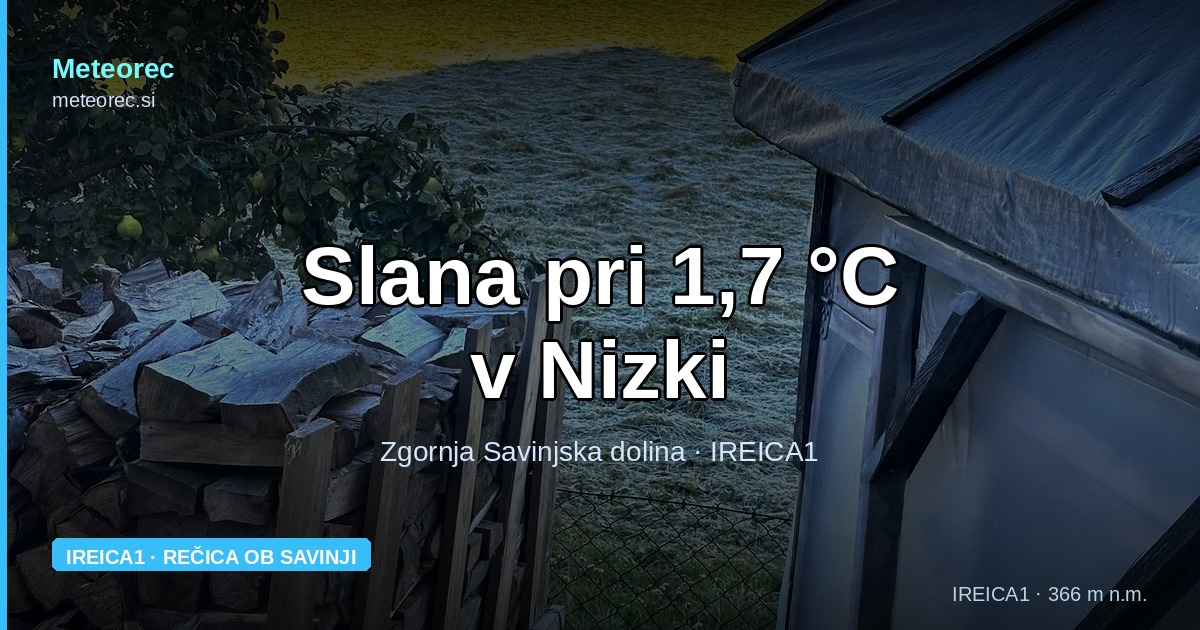
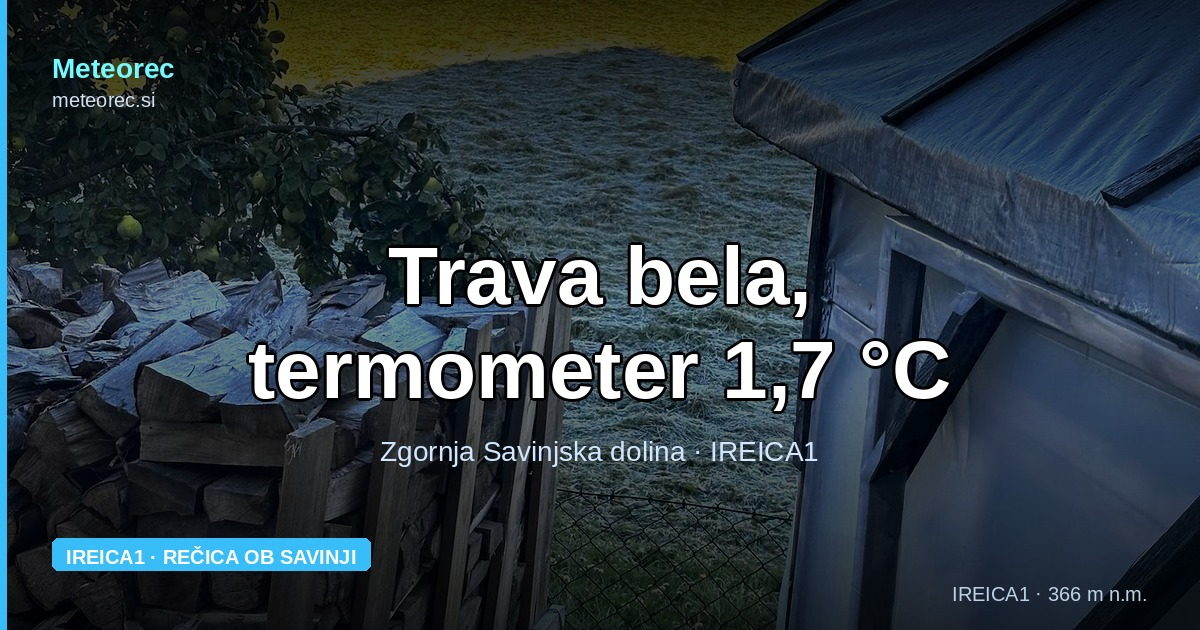
blog: slana — nov naslov, lektura besedila, dva grafa
Naslov »Trava je bela, termometer pa kaže 1,7 °C. Kako je to mogoče?«,
besedilo slogovno poenoteno po lekturi (podatki nespremenjeni), dodana grafa
(jutranji minimum 18. 9.–4. 10.; napoved proti meritvi) kot inline SVG z barvami,
preverjenimi z validate_palette.js za temno podlago.

Claude-Session: https://claude.ai/code/session_017CUyHez8XZk6zGkKhotFtc

Changed region(s): [[0.185, 0.3619, 0.8017, 0.6635]]

diff --git a/blog/slana-pri-1-7-c-zakaj-trava-pobeli-prej-kot-postaja-1004.html b/blog/slana-pri-1-7-c-zakaj-trava-pobeli-prej-kot-postaja-1004.html
@@ -17,39 +17,39 @@ j=d.createElement(s),dl=l!='dataLayer'?'&l='+l:'';j.async=true;j.src=
   gtag('config', 'G-LE8PJ1HR8B');
 </script>
 <meta name="viewport" content="width=device-width, initial-scale=1.0">
-<title>Slana pri 1,7 °C | Meteorec</title>
+<title>Trava je bela, termometer pa kaže 1,7 °C. Kako je to mogoče?</title>
 <link rel="canonical" href="https://meteorec.si/blog/slana-pri-1-7-c-zakaj-trava-pobeli-prej-kot-postaja-1004.html">
 <link rel="alternate" hreflang="sl" href="https://meteorec.si/blog/slana-pri-1-7-c-zakaj-trava-pobeli-prej-kot-postaja-1004.html">
 <link rel="alternate" hreflang="x-default" href="https://meteorec.si/blog/slana-pri-1-7-c-zakaj-trava-pobeli-prej-kot-postaja-1004.html">
-<meta name="description" content="Danes je postaja IREICA1 izmerila 1,7 °C, na travniku v Nizki pa je bila bela slana. Zakaj trava zmrzne prej kot zrak in kdaj lahko pričakujemo ničlo.">
+<meta name="description" content="Trava v Nizki je bila bela od slane, termometer na postaji IREICA1 pa je zjutraj kazal 1,7 °C. Kako je to mogoče, kdaj pride ničla in kaj bi pokazala sonda tik nad travo.">
 <meta name="keywords" content="analiza, oktober, 2026, mraz, slana, IREICA1">
 <meta name="robots" content="index, follow, max-image-preview:large">
 <meta name="author" content="Filip Eremita">
 <meta property="og:type" content="article">
 <meta property="og:url" content="https://meteorec.si/blog/slana-pri-1-7-c-zakaj-trava-pobeli-prej-kot-postaja-1004.html">
 <meta property="og:site_name" content="Meteorec">
-<meta property="og:title" content="Slana pri 1,7 °C: zakaj trava pobeli, še preden postaja pokaže ničlo">
-<meta property="og:description" content="Danes je postaja IREICA1 izmerila 1,7 °C, na travniku v Nizki pa je bila bela slana. Zakaj trava zmrzne prej kot zrak in kdaj lahko pričakujemo ničlo.">
+<meta property="og:title" content="Trava je bela, termometer pa kaže 1,7 °C. Kako je to mogoče?">
+<meta property="og:description" content="Trava v Nizki je bila bela od slane, termometer na postaji IREICA1 pa je zjutraj kazal 1,7 °C. Kako je to mogoče, kdaj pride ničla in kaj bi pokazala sonda tik nad travo.">
 <meta property="og:image" content="https://meteorec.si/og/slana-pri-1-7-c-zakaj-trava-pobeli-prej-kot-postaja-1004.jpg">
 <meta property="og:image:width" content="1200">
 <meta property="og:image:height" content="630">
 <meta property="og:locale" content="sl_SI">
-<meta property="article:published_time" content="2026-10-04T18:10:36.170521+00:00">
+<meta property="article:published_time" content="2026-10-04T18:18:02.021108+00:00">
 <meta property="article:author" content="Filip Eremita">
 <meta property="article:section" content="IREICA1 · Rečica ob Savinji">
 <meta name="twitter:card" content="summary_large_image">
-<meta name="twitter:title" content="Slana pri 1,7 °C: zakaj trava pobeli, še preden postaja pokaže ničlo">
-<meta name="twitter:description" content="Danes je postaja IREICA1 izmerila 1,7 °C, na travniku v Nizki pa je bila bela slana. Zakaj trava zmrzne prej kot zrak in kdaj lahko pričakujemo ničlo.">
+<meta name="twitter:title" content="Trava je bela, termometer pa kaže 1,7 °C. Kako je to mogoče?">
+<meta name="twitter:description" content="Trava v Nizki je bila bela od slane, termometer na postaji IREICA1 pa je zjutraj kazal 1,7 °C. Kako je to mogoče, kdaj pride ničla in kaj bi pokazala sonda tik nad travo.">
 <meta name="twitter:image" content="https://meteorec.si/og/slana-pri-1-7-c-zakaj-trava-pobeli-prej-kot-postaja-1004.jpg">
 <script type="application/ld+json">
 {
   "@context": "https://schema.org",
   "@type": "BlogPosting",
-  "headline": "Slana pri 1,7 °C: zakaj trava pobeli, še preden postaja pokaže ničlo",
-  "description": "Danes je postaja IREICA1 izmerila 1,7 °C, na travniku v Nizki pa je bila bela slana. Zakaj trava zmrzne prej kot zrak in kdaj lahko pričakujemo ničlo.",
+  "headline": "Trava je bela, termometer pa kaže 1,7 °C. Kako je to mogoče?",
+  "description": "Trava v Nizki je bila bela od slane, termometer na postaji IREICA1 pa je zjutraj kazal 1,7 °C. Kako je to mogoče, kdaj pride ničla in kaj bi pokazala sonda tik nad travo.",
   "image": { "@type": "ImageObject", "url": "https://meteorec.si/og/slana-pri-1-7-c-zakaj-trava-pobeli-prej-kot-postaja-1004.jpg", "width": 1200, "height": 630 },
-  "datePublished": "2026-10-04T18:10:36.170521+00:00",
-  "dateModified": "2026-10-04T18:10:36.170521+00:00",
+  "datePublished": "2026-10-04T18:18:02.021108+00:00",
+  "dateModified": "2026-10-04T18:18:02.021108+00:00",
   "inLanguage": "sl",
   "author": { "@type": "Person", "name": "Filip Eremita", "url": "https://meteorec.si/o-postaji.html", "sameAs": ["https://ibanezar.github.io", "https://www.wunderground.com/dashboard/pws/IREICA1"] },
   "publisher": { "@type": "Organization", "name": "Meteorec", "logo": { "@type": "ImageObject", "url": "https://meteorec.si/icon-512.png" } },
@@ -79,15 +79,15 @@ height="0" width="0" style="display:none;visibility:hidden"></iframe></noscript>
   </header>
 
   <nav class="crumbs" aria-label="Drobtine">
-    <a href="/">Meteorec</a> › <a href="/blog/">Blog</a> › Slana pri 1,7 °C: zakaj trava pobeli prej kot postaja
+    <a href="/">Meteorec</a> › <a href="/blog/">Blog</a> › Trava je bela, termometer pa kaže 1,7 °C
   </nav>
 
   <article>
     <div class="stn-badge"><span></span> IREICA1 · Rečica ob Savinji</div>
-    <h1>Slana pri 1,7 °C: zakaj trava pobeli, še preden postaja pokaže ničlo</h1>
+    <h1>Trava je bela, termometer pa kaže 1,7 °C. Kako je to mogoče?</h1>
     <p class="post-meta">4. oktobra 2026 · Filip Eremita · Postaja IREICA1</p>
 
-    <p class="lead">Danes zjutraj je postaja IREICA1 v Rečici ob Savinji izmerila <span class="hl">1,7 °C</span>, na travniku v Nizki pa je bila trava ob 8.35 še vedno bela od slane. Protislovja ni: postaja meri <strong>zrak</strong> približno 1,5–2 m nad tlemi, slana pa nastane na <strong>hladni površini travnih bilk</strong>. Prva letošnja slana je bila sicer že 23. septembra, zato smo primerjali jutra od takrat do danes in preverili, kdaj po takem jutru običajno pride ničla.</p>
+    <p class="lead">Ob 8.35 je bila trava na travniku v Nizki bela od slane, najnižja jutranja temperatura na postaji IREICA1 pa je bila <span class="hl">1,7 °C</span>. Kako je to mogoče? Odgovor je preprost: postaja meri temperaturo <strong>zraka</strong> približno 1,5–2 m nad tlemi, trava pa se ponoči ohladi precej bolj. Prva letošnja slana je bila sicer že 23. septembra, zato smo primerjali jutra od takrat do danes in preverili, kdaj po takem jutru običajno pride ničla.</p>
     <span class="section-label">Jutro v številkah</span>
     <h2 id="jutro">Kaj smo izmerili in kaj smo videli</h2>
 <div class="stat-grid">
@@ -116,22 +116,30 @@ height="0" width="0" style="display:none;visibility:hidden"></iframe></noscript>
       <img src="/img/blog/slana-pri-1-7-c-zakaj-trava-pobeli-prej-kot-postaja-1004/slana-pri-1-7-c-zakaj-trava-pobeli-prej-kot-postaja-1004-1.jpg" alt="Slana na travniku v Nizki: v senci skladovnice drv in rastlinjaka je trava še bela, osončeni del travnika v ozadju je že zelen" width="1350" height="1800" loading="lazy">
       <figcaption>Slana na travniku v Nizki, 4. oktobra 2026 ob 8.35. V senci skladovnice drv in rastlinjaka je trava še bela, osončeni del travnika v ozadju je že zelen. Foto: Jernej Štorgel.</figcaption>
     </figure>
-    <p>Fotografija lepo pokaže, kako slana nastane in izgine. Bela je trava v senci, kjer sonce bilk še ni doseglo. Tam, kamor so že padli sončni žarki, je led skopnel in trava je spet zelena. Slana je torej tanka plast ledu na površini, ki ne potrebuje, da bi bil zrak pod ničlo.</p>
+    <p>Fotografija lepo pokaže razliko med temperaturo zraka in temperaturo površine, pa tudi to, kako slana nastane in izgine. Bela je trava v senci, kjer sonce bilk še ni doseglo. Tam, kamor so že padli sončni žarki, je led skopnel in trava je spet zelena.</p>
+    <p>Dan je bil tudi sicer izrazito dolinski: zjutraj 1,7 °C, do 20. ure pa je temperatura dosegla 24,3 °C, kar je 22,6 °C dnevnega razpona. Jutra so že skoraj zimska, popoldnevi pa še povsem poletni.</p>
 
     <span class="section-label">Razlaga</span>
-    <h2 id="zakaj-postaja-ne-pokaze">Zakaj postaja ni pokazala ničle</h2>
-    <p>Postaja meri temperaturo <strong>zraka</strong> v zaščitnem ohišju, približno 1,5–2 m nad tlemi. Tako je običajno pri meteoroloških meritvah, da so številke različnih postaj primerljive. Trava pa se ponoči ohlaja po svoje. Ob jasnem nebu in brez vetra toplota z listov in tal nemoteno uhaja proti nebu, zraka, ki bi jim jo vrnil, pa je malo, ker se skoraj ne premešava. Površina bilk je zato <strong>hladnejša od zraka</strong>. Ko se ohladi pod 0 °C, vodna para iz zraka na njej zmrzne in nastane slana.</p>
-    <p>Razlika je pri jasnih in mirnih nočeh običajno nekaj stopinj, v mraziščih in na odprtih travnikih lahko tudi večja. Pri 1,7 °C na postaji je bila temperatura na travi zato verjetno okoli ali pod 0 °C, kar potrjuje tudi fotografija. Pomaga, če imamo pred očmi tri različne pojme:</p>
+    <h2 id="zakaj-postaja-ne-pokaze">Trava se ohladi bolj kot zrak</h2>
+    <p>Ob jasni in mirni noči tla in trava oddajajo toploto proti nebu. Ker ni oblakov, ki bi del toplote vračali, in ker se zrak zaradi brezvetrja skoraj ne premešava, se površina bilk ohladi precej bolj kot zrak na višini postaje. Če temperatura površine pade pod 0 °C, vodna para iz zraka na njej zmrzne v ledene kristale: nastane slana. Razlika med travo in zrakom je pri takih nočeh običajno nekaj stopinj, v mraziščih in na odprtih travnikih tudi večja. Zato lahko zjutraj vidimo belo travo, medtem ko postaja kaže 1,7 °C.</p>
+    <p>Pri tem pogosto mešamo tri pojme:</p>
 <ul>
-      <li><strong>Zmrzal</strong> – zrak na 2 m je 0 °C ali hladnejši. Pri nas to štejemo za „pravo slano“ na postaji, o tem smo pisali tudi v članku <a href="/blog/oktober-2026-v-recici-kaj-kazejo-podatki-postaje-1001.html">Oktober 2026 v Rečici</a> in na strani <a href="/pojavi/zmrzal/">Zmrzal</a>.</li>
-      <li><strong>Slana</strong> – led, ki se nabere na hladni površini. Pojavi se lahko že, ko je zrak še nekaj stopinj nad ničlo.</li>
-      <li><strong>Prizemna zmrzal</strong> – temperatura tik ob tleh je 0 °C ali manj, na višini postaje pa ne.</li>
+      <li><strong>Slana</strong> – led, ki se nabere na hladni površini, na primer na travi, avtomobilu ali strehi. Pojavi se lahko že, ko je zrak še nekaj stopinj nad ničlo.</li>
+      <li><strong>Zmrzal</strong> – zrak na višini merjenja je 0 °C ali hladnejši. Pri nas to štejemo za „pravo slano“ na postaji, o tem smo pisali tudi v članku <a href="/blog/oktober-2026-v-recici-kaj-kazejo-podatki-postaje-1001.html">Oktober 2026 v Rečici</a> in na strani <a href="/pojavi/zmrzal/">Zmrzal</a>.</li>
+      <li><strong>Prizemna zmrzal</strong> – temperatura tik nad tlemi pade pod 0 °C, na običajni višini merjenja pa je zrak še nad ničlo.</li>
     </ul>
-    <p>Danes je bila torej na travniku prizemna zmrzal in slana, zmrzali v zraku pa ni bilo.</p>
+    <p>Današnje jutro je bilo zato primer slane in zelo verjetno tudi prizemne zmrzali. Za potrditev slednje bi potrebovali neposredno meritev tik nad tlemi.</p>
 
     <span class="section-label">Pregled</span>
     <h2 id="podobna-jutra">Je bilo letos že podobno? Da, 23. septembra</h2>
-    <p>Prva letošnja slana je bila <strong>23. septembra</strong>, ko je postaja pokazala 2,2 °C (v članku tistega dne smo navedli 2,1 °C iz prvega zapisa; v arhivu je končna vrednost 2,2 °C). <strong>3. oktobra</strong>, torej včeraj, je bilo 2,4 °C, jutro 2. oktobra je bilo z 3,1 °C malo toplejše. Danes je s 1,7 °C najhladneje letos jeseni. Slana je bila torej potrjena ob 2,2 °C in ob 1,7 °C na postaji. O prvem takem jutru smo pisali v članku <a href="/blog/2-1-c-najhladnejse-jesensko-jutro-kdaj-prva-slana-0923.html">2,1 °C zjutraj: najhladnejše jutro letošnje jeseni</a>.</p>
+    <p>Prva letošnja slana je bila <strong>23. septembra</strong>, ko je postaja pokazala 2,2 °C (v članku tistega dne smo navedli 2,1 °C iz prvega zapisa, v arhivu je končna vrednost 2,2 °C). <strong>3. oktobra</strong> je bilo 2,4 °C, 2. oktobra pa 3,1 °C. Danes je s 1,7 °C najhladneje letos jeseni, a temperatura zraka letos jeseni še ni padla pod ničlo. O prvem takem jutru smo pisali v članku <a href="/blog/2-1-c-najhladnejse-jesensko-jutro-kdaj-prva-slana-0923.html">2,1 °C zjutraj: najhladnejše jutro letošnje jeseni</a>. Lani je bilo drugače: 4. oktobra 2025 je temperatura na postaji padla na −1,2 °C.</p>
+<div class="chart-card"><h3>Jutranji minimum na postaji IREICA1 (°C)</h3><svg viewBox="0 0 420 290" width="100%" role="img" aria-labelledby="ca-t ca-d" style="display:block;max-width:560px;margin:0 auto"><title id="ca-t">Jutranji minimum na postaji IREICA1, 18. 9.–4. 10. 2026</title><desc id="ca-d">Najnižja dnevna temperatura po dnevih. Najnižja je danes, 1,7 °C; 23. septembra je bila 2,2 °C in je bila na terenu potrjena slana. Pod 0 °C zrak letos jeseni še ni padel.</desc><line x1="36" x2="368" y1="219.7" y2="219.7" stroke="rgba(173,192,216,.55)" stroke-width="1"/><text x="30" y="224.2" text-anchor="end" font-size="13" fill="var(--muted)">0</text><line x1="36" x2="368" y1="151.1" y2="151.1" stroke="rgba(255,255,255,.10)" stroke-width="1"/><text x="30" y="155.6" text-anchor="end" font-size="13" fill="var(--muted)">4</text><line x1="36" x2="368" y1="82.6" y2="82.6" stroke="rgba(255,255,255,.10)" stroke-width="1"/><text x="30" y="87.1" text-anchor="end" font-size="13" fill="var(--muted)">8</text><line x1="36" x2="368" y1="14.0" y2="14.0" stroke="rgba(255,255,255,.10)" stroke-width="1"/><text x="30" y="18.5" text-anchor="end" font-size="13" fill="var(--muted)">12</text><text x="368" y="214.7" text-anchor="end" font-size="12" fill="var(--muted)">0 °C: zmrzal v zraku</text><text x="36.0" y="276" text-anchor="middle" font-size="13" fill="var(--muted)">18. 9.</text><text x="139.8" y="276" text-anchor="middle" font-size="13" fill="var(--muted)">23. 9.</text><text x="243.5" y="276" text-anchor="middle" font-size="13" fill="var(--muted)">28. 9.</text><text x="368.0" y="276" text-anchor="middle" font-size="13" fill="var(--muted)">4. 10.</text><polyline points="36.0,50.0 56.8,24.3 77.5,63.7 98.2,67.1 119.0,127.1 139.8,182.0 160.5,151.1 181.2,149.4 202.0,161.4 222.8,139.1 243.5,132.3 264.2,135.7 285.0,139.1 305.8,140.9 326.5,166.6 347.2,178.6 368.0,190.6" fill="none" stroke="#3987e5" stroke-width="2" stroke-linejoin="round" stroke-linecap="round"/><circle cx="36.0" cy="50.0" r="4" fill="#3987e5" stroke="#0a0f1c" stroke-width="2"/><circle cx="36.0" cy="50.0" r="11" fill="transparent"><title>18. 9.: 9,9 °C</title></circle><circle cx="56.8" cy="24.3" r="4" fill="#3987e5" stroke="#0a0f1c" stroke-width="2"/><circle cx="56.8" cy="24.3" r="11" fill="transparent"><title>19. 9.: 11,4 °C</title></circle><circle cx="77.5" cy="63.7" r="4" fill="#3987e5" stroke="#0a0f1c" stroke-width="2"/><circle cx="77.5" cy="63.7" r="11" fill="transparent"><title>20. 9.: 9,1 °C</title></circle><circle cx="98.2" cy="67.1" r="4" fill="#3987e5" stroke="#0a0f1c" stroke-width="2"/><circle cx="98.2" cy="67.1" r="11" fill="transparent"><title>21. 9.: 8,9 °C</title></circle><circle cx="119.0" cy="127.1" r="4" fill="#3987e5" stroke="#0a0f1c" stroke-width="2"/><circle cx="119.0" cy="127.1" r="11" fill="transparent"><title>22. 9.: 5,4 °C</title></circle><circle cx="139.8" cy="182.0" r="6" fill="#3987e5" stroke="#0a0f1c" stroke-width="2"/><circle cx="139.8" cy="182.0" r="11" fill="transparent"><title>23. 9.: 2,2 °C</title></circle><circle cx="160.5" cy="151.1" r="4" fill="#3987e5" stroke="#0a0f1c" stroke-width="2"/><circle cx="160.5" cy="151.1" r="11" fill="transparent"><title>24. 9.: 4,0 °C</title></circle><circle cx="181.2" cy="149.4" r="4" fill="#3987e5" stroke="#0a0f1c" stroke-width="2"/><circle cx="181.2" cy="149.4" r="11" fill="transparent"><title>25. 9.: 4,1 °C</title></circle><circle cx="202.0" cy="161.4" r="4" fill="#3987e5" stroke="#0a0f1c" stroke-width="2"/><circle cx="202.0" cy="161.4" r="11" fill="transparent"><title>26. 9.: 3,4 °C</title></circle><circle cx="222.8" cy="139.1" r="4" fill="#3987e5" stroke="#0a0f1c" stroke-width="2"/><circle cx="222.8" cy="139.1" r="11" fill="transparent"><title>27. 9.: 4,7 °C</title></circle><circle cx="243.5" cy="132.3" r="4" fill="#3987e5" stroke="#0a0f1c" stroke-width="2"/><circle cx="243.5" cy="132.3" r="11" fill="transparent"><title>28. 9.: 5,1 °C</title></circle><circle cx="264.2" cy="135.7" r="4" fill="#3987e5" stroke="#0a0f1c" stroke-width="2"/><circle cx="264.2" cy="135.7" r="11" fill="transparent"><title>29. 9.: 4,9 °C</title></circle><circle cx="285.0" cy="139.1" r="4" fill="#3987e5" stroke="#0a0f1c" stroke-width="2"/><circle cx="285.0" cy="139.1" r="11" fill="transparent"><title>30. 9.: 4,7 °C</title></circle><circle cx="305.8" cy="140.9" r="4" fill="#3987e5" stroke="#0a0f1c" stroke-width="2"/><circle cx="305.8" cy="140.9" r="11" fill="transparent"><title>1. 10.: 4,6 °C</title></circle><circle cx="326.5" cy="166.6" r="4" fill="#3987e5" stroke="#0a0f1c" stroke-width="2"/><circle cx="326.5" cy="166.6" r="11" fill="transparent"><title>2. 10.: 3,1 °C</title></circle><circle cx="347.2" cy="178.6" r="4" fill="#3987e5" stroke="#0a0f1c" stroke-width="2"/><circle cx="347.2" cy="178.6" r="11" fill="transparent"><title>3. 10.: 2,4 °C</title></circle><circle cx="368.0" cy="190.6" r="6" fill="#3987e5" stroke="#0a0f1c" stroke-width="2"/><circle cx="368.0" cy="190.6" r="11" fill="transparent"><title>4. 10.: 1,7 °C</title></circle><text x="135.8" y="206.0" font-size="13" fill="var(--text)">23. 9.: 2,2 °C, slana</text><text x="377.0" y="195.1" font-size="13" font-weight="600" fill="var(--text)">1,7 °C</text></svg><details style="margin-top:.6rem;color:var(--muted);font-size:.85rem"><summary>Podatki</summary><table class="stats"><tr><th>Dan</th><th>Minimum</th></tr><tr><td>18. 9.</td><td>9,9 °C</td></tr><tr><td>19. 9.</td><td>11,4 °C</td></tr><tr><td>20. 9.</td><td>9,1 °C</td></tr><tr><td>21. 9.</td><td>8,9 °C</td></tr><tr><td>22. 9.</td><td>5,4 °C</td></tr><tr><td>23. 9.</td><td>2,2 °C</td></tr><tr><td>24. 9.</td><td>4,0 °C</td></tr><tr><td>25. 9.</td><td>4,1 °C</td></tr><tr><td>26. 9.</td><td>3,4 °C</td></tr><tr><td>27. 9.</td><td>4,7 °C</td></tr><tr><td>28. 9.</td><td>5,1 °C</td></tr><tr><td>29. 9.</td><td>4,9 °C</td></tr><tr><td>30. 9.</td><td>4,7 °C</td></tr><tr><td>1. 10.</td><td>4,6 °C</td></tr><tr><td>2. 10.</td><td>3,1 °C</td></tr><tr><td>3. 10.</td><td>2,4 °C</td></tr><tr><td>4. 10.</td><td>1,7 °C</td></tr></table></details></div>
+<p>Za 23. septembra imamo potrditev s terena, za <strong>3. oktobra ne</strong>: postaja trave ne meri, zato iz teh podatkov ne moremo reči, ali je bila slana tudi takrat. Pogoji so bili podobni: veter je bil šibek (dnevno povprečje 1,6 oziroma 1,9 km/h), najnižje <a href="/slovar/rosisce/">rosišče</a> dneva pa je bilo skoraj enako temperaturi zraka (2,0 °C 23. 9., 2,2 °C 3. 10.), kar pomeni nasičen zrak. Za slano so to ugodne razmere, a za 3. oktober je to ocena, ne meritev.</p>
+
+    <span class="section-label">Napovedi</span>
+    <h2 id="napovedi">Kaj so napovedovali modeli?</h2>
+    <p>Danes je bil MTR (napoved izdana 3. oktobra) s 1,9 °C le 0,2 °C od izmerjenega minimuma. Open-Meteo je napovedal 4,0 °C, ARSO pa za Ljubno ob Savinji 8 °C. To je drug kraj, zato primerjava ni povsem poštena, vzorec pa je jasen.</p>
+<div class="chart-card"><h3>Jutranji minimum: napoved in meritev (°C)</h3><svg viewBox="0 0 420 290" width="100%" role="img" aria-labelledby="cb-t cb-d" style="display:block;max-width:560px;margin:0 auto"><title id="cb-t">Napovedani in izmerjeni jutranji minimum, 23. 9., 2. 10., 3. 10. in 4. 10. 2026</title><desc id="cb-d">Za vsako jutro vodoravna črta kaže izmerjeni minimum na postaji, krog napoved MTR, romb Open-Meteo in kvadrat ARSO za Ljubno ob Savinji. MTR je vsakič najbližje meritvi, ARSO in Open-Meteo sta bila toplejša.</desc><circle cx="50" cy="16" r="5" fill="#059669"/><text x="62" y="21" font-size="13" fill="var(--muted)">MTR</text><polygon points="102.7,10 108.7,16 102.7,22 96.7,16" fill="#a855f7"/><text x="114.7" y="21" font-size="13" fill="var(--muted)">Open-Meteo</text><rect x="198.7" y="11" width="10" height="10" fill="#d95926"/><text x="215.7" y="21" font-size="13" fill="var(--muted)">ARSO (Ljubno)</text><rect x="317.4" y="14.5" width="16" height="3" fill="var(--text)"/><text x="337.4" y="21" font-size="13" fill="var(--muted)">izmerjeno</text><line x1="44" x2="308" y1="258.0" y2="258.0" stroke="rgba(255,255,255,.10)" stroke-width="1"/><text x="38" y="262.5" text-anchor="end" font-size="13" fill="var(--muted)">0</text><line x1="44" x2="308" y1="216.8" y2="216.8" stroke="rgba(255,255,255,.10)" stroke-width="1"/><text x="38" y="221.3" text-anchor="end" font-size="13" fill="var(--muted)">2</text><line x1="44" x2="308" y1="175.6" y2="175.6" stroke="rgba(255,255,255,.10)" stroke-width="1"/><text x="38" y="180.1" text-anchor="end" font-size="13" fill="var(--muted)">4</text><line x1="44" x2="308" y1="134.4" y2="134.4" stroke="rgba(255,255,255,.10)" stroke-width="1"/><text x="38" y="138.9" text-anchor="end" font-size="13" fill="var(--muted)">6</text><line x1="44" x2="308" y1="93.2" y2="93.2" stroke="rgba(255,255,255,.10)" stroke-width="1"/><text x="38" y="97.7" text-anchor="end" font-size="13" fill="var(--muted)">8</text><line x1="44" x2="308" y1="52.0" y2="52.0" stroke="rgba(255,255,255,.10)" stroke-width="1"/><text x="38" y="56.5" text-anchor="end" font-size="13" fill="var(--muted)">10</text><text x="38" y="40" text-anchor="end" font-size="12" fill="var(--muted)">°C</text><text x="77.0" y="280" text-anchor="middle" font-size="13" fill="var(--muted)">23. 9.</text><rect x="53.0" y="211.2" width="48" height="3" fill="var(--text)"><title>23. 9.: izmerjeno 2,2 °C</title></rect><circle cx="63.0" cy="188.0" r="5" fill="#059669" stroke="#0a0f1c" stroke-width="2"><title>23. 9.: MTR 3,4 °C</title></circle><polygon points="77.0,160.4 84.0,167.4 77.0,174.4 70.0,167.4" fill="#a855f7" stroke="#0a0f1c" stroke-width="2"><title>23. 9.: Open-Meteo 4,4 °C</title></polygon><rect x="86.0" y="150.0" width="10" height="10" fill="#d95926" stroke="#0a0f1c" stroke-width="2"><title>23. 9.: ARSO (Ljubno) 5 °C</title></rect><text x="143.0" y="280" text-anchor="middle" font-size="13" fill="var(--muted)">2. 10.</text><rect x="119.0" y="192.6" width="48" height="3" fill="var(--text)"><title>2. 10.: izmerjeno 3,1 °C</title></rect><circle cx="129.0" cy="159.1" r="5" fill="#059669" stroke="#0a0f1c" stroke-width="2"><title>2. 10.: MTR 4,8 °C</title></circle><polygon points="143.0,123.3 150.0,130.3 143.0,137.3 136.0,130.3" fill="#a855f7" stroke="#0a0f1c" stroke-width="2"><title>2. 10.: Open-Meteo 6,2 °C</title></polygon><rect x="152.0" y="67.6" width="10" height="10" fill="#d95926" stroke="#0a0f1c" stroke-width="2"><title>2. 10.: ARSO (Ljubno) 9 °C</title></rect><text x="209.0" y="280" text-anchor="middle" font-size="13" fill="var(--muted)">3. 10.</text><rect x="185.0" y="207.1" width="48" height="3" fill="var(--text)"><title>3. 10.: izmerjeno 2,4 °C</title></rect><circle cx="195.0" cy="175.6" r="5" fill="#059669" stroke="#0a0f1c" stroke-width="2"><title>3. 10.: MTR 4,0 °C</title></circle><polygon points="209.0,135.6 216.0,142.6 209.0,149.6 202.0,142.6" fill="#a855f7" stroke="#0a0f1c" stroke-width="2"><title>3. 10.: Open-Meteo 5,6 °C</title></polygon><rect x="218.0" y="67.6" width="10" height="10" fill="#d95926" stroke="#0a0f1c" stroke-width="2"><title>3. 10.: ARSO (Ljubno) 9 °C</title></rect><text x="275.0" y="280" text-anchor="middle" font-size="13" fill="var(--muted)">4. 10.</text><rect x="251.0" y="221.5" width="48" height="3" fill="var(--text)"><title>4. 10.: izmerjeno 1,7 °C</title></rect><circle cx="261.0" cy="218.9" r="5" fill="#059669" stroke="#0a0f1c" stroke-width="2"><title>4. 10.: MTR 1,9 °C</title></circle><polygon points="275.0,168.6 282.0,175.6 275.0,182.6 268.0,175.6" fill="#a855f7" stroke="#0a0f1c" stroke-width="2"><title>4. 10.: Open-Meteo 4,0 °C</title></polygon><rect x="284.0" y="88.2" width="10" height="10" fill="#d95926" stroke="#0a0f1c" stroke-width="2"><title>4. 10.: ARSO (Ljubno) 8 °C</title></rect><text x="305.0" y="239.0" font-size="13" font-weight="600" fill="var(--text)">izmerjeno 1,7</text><text x="305.0" y="210.9" font-size="13" fill="var(--text)">MTR 1,9</text><text x="305.0" y="180.1" font-size="13" fill="var(--text)">Open-Meteo 4,0</text><text x="305.0" y="97.7" font-size="13" fill="var(--text)">ARSO 8</text></svg></div>
 <div style="overflow-x:auto;-webkit-overflow-scrolling:touch">
     <table class="stats">
       <tr><th>Jutro</th><th>Minimum na postaji</th><th>MTR</th><th>Open-Meteo</th><th>ARSO (Ljubno)</th></tr>
@@ -141,13 +149,13 @@ height="0" width="0" style="display:none;visibility:hidden"></iframe></noscript>
       <tr><td>4. 10.</td><td><strong>1,7 °C</strong></td><td>1,9 °C</td><td>4,0 °C</td><td>8 °C</td></tr>
     </table>
     </div>
-    <p>Pod tabelo velja opozorilo: napovedi so tiste iz dneva pred jutrom, ARSO pa objavlja napoved za Ljubno ob Savinji, torej drug kraj. Kljub temu je vzorec jasen. Na postaji je bilo vsa štiri jutra hladneje od napovedi ARSO in Open-Meteo, MTR, ki se uči iz meritev te postaje, je bil bliže. Danes se je zmotil za 0,2 °C, na prejšnja tri jutra pa je bil za 1,2–1,7 °C pretopel.</p>
-<p>Za 23. septembra imamo potrditev s terena, za <strong>3. oktobra ne</strong>: postaja trave ne meri, zato iz teh podatkov ne moremo reči, ali je bila slana tudi takrat. Pogoji so bili podobni: veter je bil šibek (dnevno povprečje 1,6 oziroma 1,9 km/h), najnižje <a href="/slovar/rosisce/">rosišče</a> dneva pa je bilo skoraj enako temperaturi zraka (2,0 °C 23. 9., 2,2 °C 3. 10.), kar pomeni nasičen zrak. Za slano so to ugodne razmere, a za 3. oktober je to ocena, ne meritev.</p>
+    <p>Na postaji je bilo vsa štiri jutra hladneje od napovedi ARSO in Open-Meteo. MTR, ki se uči iz meritev te postaje, je bil bliže, a je bil na prejšnja tri jutra še vedno za 1,2–1,7 °C pretopel. Napovedi so tiste iz dneva pred jutrom.</p>
 
     <span class="section-label">Zgodovina</span>
     <h2 id="kdaj-nicla">Kdaj po prvem takem jutru pride ničla?</h2>
     <p>Postaja meri od jeseni 2019. Za vsako leto smo poiskali prvo jutro s temperaturo do 2 °C in prvo jutro z ničlo ali manj:</p>
-<table class="stats">
+<div style="overflow-x:auto;-webkit-overflow-scrolling:touch">
+    <table class="stats">
       <tr><th>Leto</th><th>Prvo jutro ≤ 2 °C</th><th>Prvo jutro ≤ 0 °C</th></tr>
       <tr><td>2020</td><td>14. 10. (−0,6 °C)</td><td>14. 10.</td></tr>
       <tr><td>2021</td><td>12. 10. (1,8 °C)</td><td>13. 10.</td></tr>
@@ -157,13 +165,14 @@ height="0" width="0" style="display:none;visibility:hidden"></iframe></noscript>
       <tr><td>2025</td><td>2. 10. (1,6 °C)</td><td>3. 10.</td></tr>
       <tr><td>2026</td><td class="yr-cold">4. 10. (1,7 °C)</td><td>še ne</td></tr>
     </table>
-    <p>V petih od šestih let je ničla prišla isto ali že naslednje jutro po prvem jutru pod 2 °C. Izjema je 2022: 20. septembra je bilo 1,7 °C, prvo jutro pod ničlo pa šele 20. novembra. Pred letom dni je bilo na današnji dan v Rečici −1,2 °C, letos je skoraj 3 °C toplejše.</p>
+    </div>
+    <p>V petih od šestih let je ničla prišla isto ali že naslednje jutro po prvem jutru pod 2 °C. Izjema je 2022: 20. septembra je bilo 1,7 °C, prvo jutro pod ničlo pa šele 20. novembra.</p>
 <p>Kaj kaže napoved? MTR za naslednja jutra napoveduje 4,2 °C (5. 10.), 3,7 °C (6. 10.) in 5,3 °C (7. 10.), z negotovostjo okoli ±1,5 °C. Zmrzal v zraku torej ni videti blizu. Slana na odprtih, mrzlih travnikih pa je ob vsaki jasni in mirni noči še mogoča, saj je bila danes ob 1,7 °C.</p>
 
     <span class="section-label">Merjenje</span>
-    <h2 id="travna-sonda">Kaj bi dodala sonda tik nad travo</h2>
-    <p>Takšnega vprašanja postaja trenutno ne more rešiti, ker travne površine ne meri. Rešitev bi bila dodatna sonda približno 5 cm nad travo, na odprtem in izpostavljena nebu. Tako meri minimum tik nad travo tudi klasična meteorološka postaja z minimumskim termometrom. Razlika med sondo in zrakom na 2 m bi dala konkretno številko: koliko hladneje je na travi in pri katerih pogojih (jasno nebo, veter, vlaga) trava res zmrzne.</p>
-    <p>S tem bi lahko ob takih jutrih namesto ocene zapisali, da je bila na travi slana, ko je bil zrak +1,7 °C (ali +2,2 °C kot 23. septembra). Sčasoma bi iz primerjave nastalo tudi preprosto pravilo za vrtičkarje in sadjarje: pri kakšni napovedi nočnega minimuma je pozeba na travi ali nizkih rastlinah verjetna.</p>
+    <h2 id="travna-sonda">Kaj bi pokazala sonda tik nad travo?</h2>
+    <p>Današnje jutro je dober argument za še eno meritev. Takšnega vprašanja postaja trenutno ne more rešiti, ker travne površine ne meri. Rešitev bi bila dodatna sonda približno 5 cm nad travo, na odprtem in izpostavljena nebu. Tako meri minimum tik nad travo tudi klasična meteorološka postaja z minimumskim termometrom. Razlika med sondo in zrakom na 2 m bi dala konkretno številko: koliko hladneje je na travi in pri katerih pogojih (jasno nebo, veter, vlaga) trava res zmrzne.</p>
+    <p>S tem bi lahko ob takih jutrih namesto ocene zapisali, da je bila na travi slana, ko je bil zrak +1,7 °C (ali +2,2 °C kot 23. septembra). Sčasoma bi iz primerjave nastalo tudi preprosto pravilo za vrtičkarje in sadjarje: pri kakšni napovedi nočnega minimuma je pozeba na travi ali nizkih rastlinah verjetna. To je zanimivo predvsem v dolinah, kjer se ob jasnih in mirnih nočeh hladen zrak nabira tik pri tleh.</p>
     <p>Od te meritve je treba ločiti sondo v tleh. Ta na nekaj centimetrih globine pove, koliko toplote hranijo tla, in je zanimiva predvsem za gobarsko napoved, ne pa za vprašanje, ali je bilka zmrznila. Če bi sondo dodali, bi se zato splačalo razmisliti o obeh.</p>
 
     <span class="section-label">Povzetek</span>
@@ -171,8 +180,9 @@ height="0" width="0" style="display:none;visibility:hidden"></iframe></noscript>
 <div class="callout">
       <p>Postaja je danes izmerila <strong>1,7 °C</strong>, na travniku v Nizki pa je bila slana. Postaja meri zrak na 1,5–2 m, slana pa nastane na hladni površini trave, ki je ob jasni in mirni noči hladnejša od zraka za nekaj stopinj.</p>
       <p>Prva letošnja slana je bila 23. septembra (2,2 °C na postaji), jutro 3. oktobra je bilo z 2,4 °C skoraj enako mrzlo. Prave zmrzali v zraku (≤ 0 °C) še ni, v preteklih letih pa je navadno prišla isto ali naslednje jutro po prvem jutru pod 2 °C. Napoved tega za zdaj ne kaže.</p>
+      <p>Vreme torej tudi tokrat malo vara na prvi pogled: termometer kaže 1,7 °C, trava pa je bela. Oboje je lahko popolnoma pravilno.</p>
     </div>
-    <p style="color:var(--muted);font-size:.9rem;margin-top:2rem">Vir podatkov: osebna meteorološka postaja IREICA1, Rečica ob Savinji (366 m n. m., zaščitno ohišje približno 1,5–2 m nad tlemi); postajni arhiv 2019–2026. Današnji minimum in maksimum sta iz 5-minutnih meritev do 20. ure. Napovedi MTR, Open-Meteo in ARSO (Ljubno ob Savinji) so tiste, ki jih za semafor <a href="/tocnost-napovedi/" style="color:var(--blue)">natančnosti napovedi</a> zamrznemo dan pred jutrom.<br><br>Opomba: slana v Nizki je terensko opazovanje s fotografije, ne meritev postaje. Razmere tik ob tleh se med kraji in celo med deli istega travnika razlikujejo, zato ne trdimo, da je bila slana povsod v dolini.</p>
+    <p style="color:var(--muted);font-size:.9rem;margin-top:2rem">Vir podatkov: osebna meteorološka postaja IREICA1, Rečica ob Savinji (366 m n. m., zaščitno ohišje približno 1,5–2 m nad tlemi); postajni arhiv 2019–2026. Današnji minimum in maksimum sta iz 5-minutnih meritev do 20. ure. Napovedi MTR, Open-Meteo in ARSO (Ljubno ob Savinji) so tiste, ki jih za semafor <a href="/tocnost-napovedi/" style="color:var(--blue)">natančnosti napovedi</a> zamrznemo dan pred jutrom.<br><br>Opomba: slana v Nizki je terensko opazovanje, ne meritev postaje. Razmere tik ob tleh se med kraji in celo med deli istega travnika razlikujejo, zato ne trdimo, da je bila slana povsod v dolini.</p>
 
     <!-- teme:start — samodejno, wire_all(); ne urejaj ročno -->
     <div class="post-topics"><span class="pt-label">Teme:</span> <a class="pt-tag" href="/blog/tema/analiza/">analiza</a><a class="pt-tag" href="/blog/tema/2026/">2026</a><a class="pt-tag" href="/blog/tema/mraz/">mraz</a><a class="pt-tag" href="/blog/tema/ireica1/">ireica1</a></div>
@@ -183,7 +193,7 @@ height="0" width="0" style="display:none;visibility:hidden"></iframe></noscript>
   <!-- sorodni:start — samodejno, wire_all(); ne urejaj ročno -->
   <section class="related-posts">
     <h2 class="related-title">Sorodni članki</h2>
-    <div class="related-grid"><a class="related-card" href="/blog/2-1-c-najhladnejse-jesensko-jutro-kdaj-prva-slana-0923.html"><span class="related-date">23. septembra 2026</span><span class="related-h">2,1 °C zjutraj: najhladnejše jutro letošnje jeseni v Rečici ob Savinji — kdaj bo prva slana?</span><span class="related-sum">Postaja IREICA1 je zjutraj izmerila 2,1 °C — najhladnejše jutro letošnje jeseni, skoraj 7 °C pod normalo. Zakaj je bilo …</span></a><a class="related-card" href="/blog/oktober-2026-v-recici-kaj-kazejo-podatki-postaje-1001.html"><span class="related-date">1. oktobra 2026</span><span class="related-h">Oktober 2026 v Rečici: kaj kažejo podatki postaje</span><span class="related-sum">Kaj lahko v oktobru pričakujemo v Rečici ob Savinji? Šest oktobrov postaje IREICA1: temperature, padavine, prva slana in…</span></a><a class="related-card" href="/blog/indijansko-poletje-suh-soncen-teden-0925.html"><span class="related-date">25. septembra 2026</span><span class="related-h">Indijansko poletje: pred nami suh in sončen teden</span><span class="related-sum">Od sobote do vsaj četrtka suho in sončno, popoldne okoli 20 °C, jutra hladna. Kaj je indijansko poletje, kaj kažejo ARSO…</span></a></div>
+    <div class="related-grid"><a class="related-card" href="/blog/2-1-c-najhladnejse-jesensko-jutro-kdaj-prva-slana-0923.html"><span class="related-date">23. septembra 2026</span><span class="related-h">2,1 °C zjutraj: najhladnejše jutro letošnje jeseni v Rečici ob Savinji — kdaj bo prva slana?</span><span class="related-sum">Postaja IREICA1 je zjutraj izmerila 2,1 °C — najhladnejše jutro letošnje jeseni, skoraj 7 °C pod normalo. Zakaj je bilo …</span></a><a class="related-card" href="/blog/indijansko-poletje-suh-soncen-teden-0925.html"><span class="related-date">25. septembra 2026</span><span class="related-h">Indijansko poletje: pred nami suh in sončen teden</span><span class="related-sum">Od sobote do vsaj četrtka suho in sončno, popoldne okoli 20 °C, jutra hladna. Kaj je indijansko poletje, kaj kažejo ARSO…</span></a><a class="related-card" href="/blog/oktober-2026-v-recici-kaj-kazejo-podatki-postaje-1001.html"><span class="related-date">1. oktobra 2026</span><span class="related-h">Oktober 2026 v Rečici: kaj kažejo podatki postaje</span><span class="related-sum">Kaj lahko v oktobru pričakujemo v Rečici ob Savinji? Šest oktobrov postaje IREICA1: temperature, padavine, prva slana in…</span></a></div>
   </section>
   <!-- sorodni:end -->
 

diff --git a/blog/kelvin-helmholtzovi-valovi-nad-crnivcem-0924.html b/blog/kelvin-helmholtzovi-valovi-nad-crnivcem-0924.html
@@ -215,7 +215,7 @@ height="0" width="0" style="display:none;visibility:hidden"></iframe></noscript>
   <!-- sorodni:start — samodejno, wire_all(); ne urejaj ročno -->
   <section class="related-posts">
     <h2 class="related-title">Sorodni članki</h2>
-    <div class="related-grid"><a class="related-card" href="/blog/altocumulus-undulatus-nad-recico-valovi-pred-fronto-0819.html"><span class="related-date">19. avgusta 2026</span><span class="related-h">Altocumulus undulatus nad Rečico: valovi pred fronto</span><span class="related-sum">Valoviti altokumulusi so 18. avgusta opoldne stali med 3,1 in 4,3 km, fronta pa je prišla ob sedmih zvečer s pol milimet…</span></a><a class="related-card" href="/blog/cirrocumulus-nad-recico-predznak-jutrisnjega-dezja-0916.html"><span class="related-date">16. septembra 2026</span><span class="related-h">Cirrocumulus nad Rečico: predznak jutrišnjega dežja</span><span class="related-sum">Danes dopoldne so se nad Rečico ob Savinji razprli cirokumulusi na približno 7,5 km, kjer je pri −23 °C pihalo do 36 km/…</span></a><a class="related-card" href="/blog/pileus-nad-recico-kapa-nad-nevihtnim-stolpom-0831.html"><span class="related-date">31. avgusta 2026</span><span class="related-h">Pileus nad Rečico: kapa nad rastočim nevihtnim stolpom</span><span class="related-sum">V ponedeljek zvečer je rastoč nevihtni oblak nad Rečico ob Savinji za nekaj minut pokrila gladka kapa pileus. Kaj jo je …</span></a></div>
+    <div class="related-grid"><a class="related-card" href="/blog/altocumulus-undulatus-nad-recico-valovi-pred-fronto-0819.html"><span class="related-date">19. avgusta 2026</span><span class="related-h">Altocumulus undulatus nad Rečico: valovi pred fronto</span><span class="related-sum">Valoviti altokumulusi so 18. avgusta opoldne stali med 3,1 in 4,3 km, fronta pa je prišla ob sedmih zvečer s pol milimet…</span></a><a class="related-card" href="/blog/pileus-nad-recico-kapa-nad-nevihtnim-stolpom-0831.html"><span class="related-date">31. avgusta 2026</span><span class="related-h">Pileus nad Rečico: kapa nad rastočim nevihtnim stolpom</span><span class="related-sum">V ponedeljek zvečer je rastoč nevihtni oblak nad Rečico ob Savinji za nekaj minut pokrila gladka kapa pileus. Kaj jo je …</span></a><a class="related-card" href="/blog/cirrocumulus-nad-recico-predznak-jutrisnjega-dezja-0916.html"><span class="related-date">16. septembra 2026</span><span class="related-h">Cirrocumulus nad Rečico: predznak jutrišnjega dežja</span><span class="related-sum">Danes dopoldne so se nad Rečico ob Savinji razprli cirokumulusi na približno 7,5 km, kjer je pri −23 °C pihalo do 36 km/…</span></a></div>
   </section>
   <!-- sorodni:end -->
 

diff --git a/blog/2-1-c-najhladnejse-jesensko-jutro-kdaj-prva-slana-0923.html b/blog/2-1-c-najhladnejse-jesensko-jutro-kdaj-prva-slana-0923.html
@@ -251,7 +251,7 @@ height="0" width="0" style="display:none;visibility:hidden"></iframe></noscript>
   <!-- sorodni:start — samodejno, wire_all(); ne urejaj ročno -->
   <section class="related-posts">
     <h2 class="related-title">Sorodni članki</h2>
-    <div class="related-grid"><a class="related-card" href="/blog/slana-pri-1-7-c-zakaj-trava-pobeli-prej-kot-postaja-1004.html"><span class="related-date">4. oktobra 2026</span><span class="related-h">Slana pri 1,7 °C: zakaj trava pobeli, še preden postaja pokaže ničlo</span><span class="related-sum">Danes je postaja IREICA1 izmerila 1,7 °C, na travniku v Nizki pa je bila bela slana. Zakaj trava zmrzne prej kot zrak in…</span></a><a class="related-card" href="/blog/oktober-2026-v-recici-kaj-kazejo-podatki-postaje-1001.html"><span class="related-date">1. oktobra 2026</span><span class="related-h">Oktober 2026 v Rečici: kaj kažejo podatki postaje</span><span class="related-sum">Kaj lahko v oktobru pričakujemo v Rečici ob Savinji? Šest oktobrov postaje IREICA1: temperature, padavine, prva slana in…</span></a><a class="related-card" href="/blog/najhladnejsa-julijska-jutra-recica.html"><span class="related-date">4. julija 2026</span><span class="related-h">Julij pri 7,5 °C: najhladnejša julijska jutra na postaji IREICA1</span><span class="related-sum">Rekordno julijsko jutro na Rečici ob Savinji je 7,5 °C (14. julija 2020). Zakaj zna julij v dolini ponuditi enomestne ju…</span></a></div>
+    <div class="related-grid"><a class="related-card" href="/blog/slana-pri-1-7-c-zakaj-trava-pobeli-prej-kot-postaja-1004.html"><span class="related-date">4. oktobra 2026</span><span class="related-h">Trava je bela, termometer pa kaže 1,7 °C. Kako je to mogoče?</span><span class="related-sum">Trava v Nizki je bila bela od slane, termometer na postaji IREICA1 pa je zjutraj kazal 1,7 °C. Kako je to mogoče, kdaj p…</span></a><a class="related-card" href="/blog/oktober-2026-v-recici-kaj-kazejo-podatki-postaje-1001.html"><span class="related-date">1. oktobra 2026</span><span class="related-h">Oktober 2026 v Rečici: kaj kažejo podatki postaje</span><span class="related-sum">Kaj lahko v oktobru pričakujemo v Rečici ob Savinji? Šest oktobrov postaje IREICA1: temperature, padavine, prva slana in…</span></a><a class="related-card" href="/blog/najhladnejsa-julijska-jutra-recica.html"><span class="related-date">4. julija 2026</span><span class="related-h">Julij pri 7,5 °C: najhladnejša julijska jutra na postaji IREICA1</span><span class="related-sum">Rekordno julijsko jutro na Rečici ob Savinji je 7,5 °C (14. julija 2020). Zakaj zna julij v dolini ponuditi enomestne ju…</span></a></div>
   </section>
   <!-- sorodni:end -->
 

diff --git a/blog/index.html b/blog/index.html
@@ -261,11 +261,11 @@ height="0" width="0" style="display:none;visibility:hidden"></iframe></noscript>
   <ul class="post-list">
     <li>
       <a class="post-card" href="slana-pri-1-7-c-zakaj-trava-pobeli-prej-kot-postaja-1004.html">
-        <img class="post-thumb" src="/og/slana-pri-1-7-c-zakaj-trava-pobeli-prej-kot-postaja-1004.jpg" alt="Slana pri 1,7 °C: zakaj trava pobeli, še preden postaja pokaže ničlo" width="260" height="260" loading="eager" fetchpriority="high">
+        <img class="post-thumb" src="/og/slana-pri-1-7-c-zakaj-trava-pobeli-prej-kot-postaja-1004.jpg" alt="Trava je bela, termometer pa kaže 1,7 °C. Kako je to mogoče?" width="260" height="260" loading="eager" fetchpriority="high">
         <div class="post-card-body">
           <div class="date">4. oktobra 2026</div>
-          <h2>Slana pri 1,7 °C: zakaj trava pobeli, še preden postaja pokaže ničlo</h2>
-          <p>Danes je postaja IREICA1 izmerila 1,7 °C, na travniku v Nizki pa je bila bela slana. Zakaj trava zmrzne prej kot zrak in kdaj lahko pričakujemo ničlo.</p>
+          <h2>Trava je bela, termometer pa kaže 1,7 °C. Kako je to mogoče?</h2>
+          <p>Trava v Nizki je bila bela od slane, termometer na postaji IREICA1 pa je zjutraj kazal 1,7 °C. Kako je to mogoče, kdaj pride ničla in kaj bi pokazala sonda tik nad travo.</p>
         </div>
       </a>
     </li>

diff --git a/blog/tema/2026/index.html b/blog/tema/2026/index.html
@@ -45,11 +45,11 @@
   <ul class="post-list">
     <li>
       <a class="post-card" href="/blog/slana-pri-1-7-c-zakaj-trava-pobeli-prej-kot-postaja-1004.html">
-        <img class="post-thumb" src="/og/slana-pri-1-7-c-zakaj-trava-pobeli-prej-kot-postaja-1004.jpg" alt="Slana pri 1,7 °C: zakaj trava pobeli, še preden postaja pokaže ničlo" width="260" height="260" loading="eager" fetchpriority="high">
+        <img class="post-thumb" src="/og/slana-pri-1-7-c-zakaj-trava-pobeli-prej-kot-postaja-1004.jpg" alt="Trava je bela, termometer pa kaže 1,7 °C. Kako je to mogoče?" width="260" height="260" loading="eager" fetchpriority="high">
         <div class="post-card-body">
           <div class="date">4. oktobra 2026</div>
-          <h2>Slana pri 1,7 °C: zakaj trava pobeli, še preden postaja pokaže ničlo</h2>
-          <p>Danes je postaja IREICA1 izmerila 1,7 °C, na travniku v Nizki pa je bila bela slana. Zakaj trava zmrzne prej kot zrak in kdaj lahko pričakujemo ničlo.</p>
+          <h2>Trava je bela, termometer pa kaže 1,7 °C. Kako je to mogoče?</h2>
+          <p>Trava v Nizki je bila bela od slane, termometer na postaji IREICA1 pa je zjutraj kazal 1,7 °C. Kako je to mogoče, kdaj pride ničla in kaj bi pokazala sonda tik nad travo.</p>
         </div>
       </a>
     </li>

diff --git a/blog/tema/analiza/index.html b/blog/tema/analiza/index.html
@@ -45,11 +45,11 @@
   <ul class="post-list">
     <li>
       <a class="post-card" href="/blog/slana-pri-1-7-c-zakaj-trava-pobeli-prej-kot-postaja-1004.html">
-        <img class="post-thumb" src="/og/slana-pri-1-7-c-zakaj-trava-pobeli-prej-kot-postaja-1004.jpg" alt="Slana pri 1,7 °C: zakaj trava pobeli, še preden postaja pokaže ničlo" width="260" height="260" loading="eager" fetchpriority="high">
+        <img class="post-thumb" src="/og/slana-pri-1-7-c-zakaj-trava-pobeli-prej-kot-postaja-1004.jpg" alt="Trava je bela, termometer pa kaže 1,7 °C. Kako je to mogoče?" width="260" height="260" loading="eager" fetchpriority="high">
         <div class="post-card-body">
           <div class="date">4. oktobra 2026</div>
-          <h2>Slana pri 1,7 °C: zakaj trava pobeli, še preden postaja pokaže ničlo</h2>
-          <p>Danes je postaja IREICA1 izmerila 1,7 °C, na travniku v Nizki pa je bila bela slana. Zakaj trava zmrzne prej kot zrak in kdaj lahko pričakujemo ničlo.</p>
+          <h2>Trava je bela, termometer pa kaže 1,7 °C. Kako je to mogoče?</h2>
+          <p>Trava v Nizki je bila bela od slane, termometer na postaji IREICA1 pa je zjutraj kazal 1,7 °C. Kako je to mogoče, kdaj pride ničla in kaj bi pokazala sonda tik nad travo.</p>
         </div>
       </a>
     </li>

diff --git a/blog/tema/ireica1/index.html b/blog/tema/ireica1/index.html
@@ -45,11 +45,11 @@
   <ul class="post-list">
     <li>
       <a class="post-card" href="/blog/slana-pri-1-7-c-zakaj-trava-pobeli-prej-kot-postaja-1004.html">
-        <img class="post-thumb" src="/og/slana-pri-1-7-c-zakaj-trava-pobeli-prej-kot-postaja-1004.jpg" alt="Slana pri 1,7 °C: zakaj trava pobeli, še preden postaja pokaže ničlo" width="260" height="260" loading="eager" fetchpriority="high">
+        <img class="post-thumb" src="/og/slana-pri-1-7-c-zakaj-trava-pobeli-prej-kot-postaja-1004.jpg" alt="Trava je bela, termometer pa kaže 1,7 °C. Kako je to mogoče?" width="260" height="260" loading="eager" fetchpriority="high">
         <div class="post-card-body">
           <div class="date">4. oktobra 2026</div>
-          <h2>Slana pri 1,7 °C: zakaj trava pobeli, še preden postaja pokaže ničlo</h2>
-          <p>Danes je postaja IREICA1 izmerila 1,7 °C, na travniku v Nizki pa je bila bela slana. Zakaj trava zmrzne prej kot zrak in kdaj lahko pričakujemo ničlo.</p>
+          <h2>Trava je bela, termometer pa kaže 1,7 °C. Kako je to mogoče?</h2>
+          <p>Trava v Nizki je bila bela od slane, termometer na postaji IREICA1 pa je zjutraj kazal 1,7 °C. Kako je to mogoče, kdaj pride ničla in kaj bi pokazala sonda tik nad travo.</p>
         </div>
       </a>
     </li>

diff --git a/blog/tema/mraz/index.html b/blog/tema/mraz/index.html
@@ -45,11 +45,11 @@
   <ul class="post-list">
     <li>
       <a class="post-card" href="/blog/slana-pri-1-7-c-zakaj-trava-pobeli-prej-kot-postaja-1004.html">
-        <img class="post-thumb" src="/og/slana-pri-1-7-c-zakaj-trava-pobeli-prej-kot-postaja-1004.jpg" alt="Slana pri 1,7 °C: zakaj trava pobeli, še preden postaja pokaže ničlo" width="260" height="260" loading="eager" fetchpriority="high">
+        <img class="post-thumb" src="/og/slana-pri-1-7-c-zakaj-trava-pobeli-prej-kot-postaja-1004.jpg" alt="Trava je bela, termometer pa kaže 1,7 °C. Kako je to mogoče?" width="260" height="260" loading="eager" fetchpriority="high">
         <div class="post-card-body">
           <div class="date">4. oktobra 2026</div>
-          <h2>Slana pri 1,7 °C: zakaj trava pobeli, še preden postaja pokaže ničlo</h2>
-          <p>Danes je postaja IREICA1 izmerila 1,7 °C, na travniku v Nizki pa je bila bela slana. Zakaj trava zmrzne prej kot zrak in kdaj lahko pričakujemo ničlo.</p>
+          <h2>Trava je bela, termometer pa kaže 1,7 °C. Kako je to mogoče?</h2>
+          <p>Trava v Nizki je bila bela od slane, termometer na postaji IREICA1 pa je zjutraj kazal 1,7 °C. Kako je to mogoče, kdaj pride ničla in kaj bi pokazala sonda tik nad travo.</p>
         </div>
       </a>
     </li>
